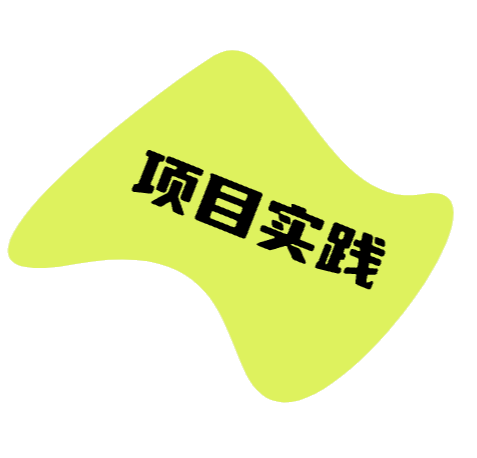
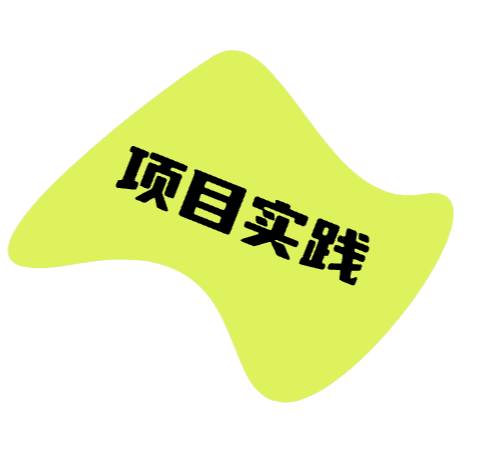
refactor: 优化首页元素

Changed region(s): [[0.2348, 0.3057, 0.8218, 0.6419]]

diff --git a/app/(marketing)/page.tsx b/app/(marketing)/page.tsx
@@ -22,16 +22,16 @@ export default function IndexPage() {
   return (
     <>
       <div className="container max-w-[64rem] mx-auto relative">
-        <div className="absolute -left-20 top-20 -z-10">
+        <div className="absolute left-[5%] md:-left-[10%] top-24 md:top-40 -z-10">
           <Image
             src="/images/tag-lime.png"
             alt="Decorative lime tag"
-            width={150}
-            height={150}
+            width={180}
+            height={180}
             className="opacity-100 w-[120px] md:w-[180px] lg:w-[220px] h-auto"
           />
         </div>
-        <div className="absolute -right-20 top-50 -z-10">
+        <div className="absolute right-[5%] md:-right-[10%] top-0 md:top-50 -z-10">
           <Image
             src="/images/tag-purple.png"
             alt="Decorative purple tag"
@@ -41,7 +41,7 @@ export default function IndexPage() {
           />
         </div>
       </div>
-      <section className="container max-w-[64rem] mx-auto space-y-6 py-6 md:py-24">
+      <section className="container max-w-[64rem] mx-auto space-y-6 py-12 md:py-32">
         <div className="flex flex-col items-center gap-4 text-center">
           <h1 className="font-heading text-3xl sm:text-5xl md:text-6xl lg:text-7xl leading-normal sm:leading-loose tracking-wider">
             {CONSTANTS.HERO.TITLE}
